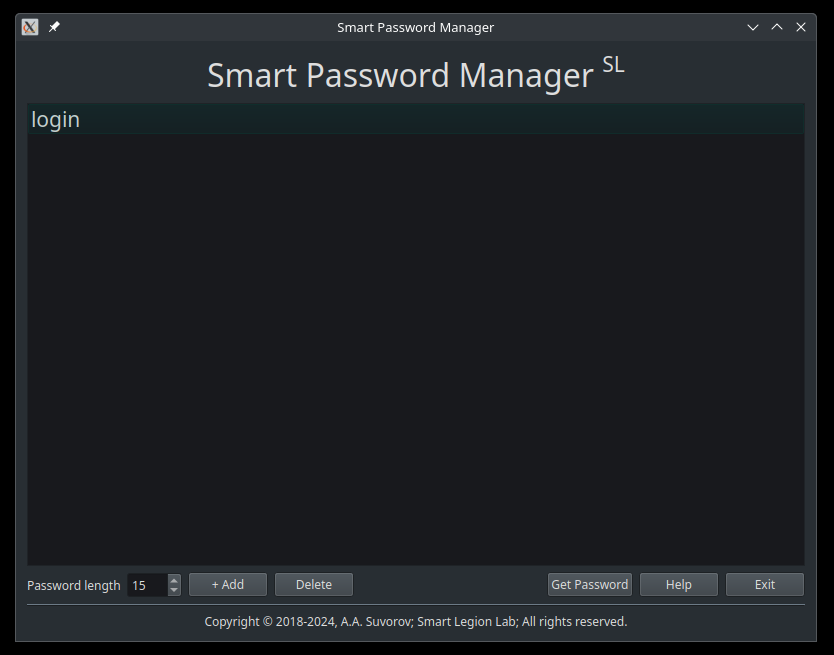
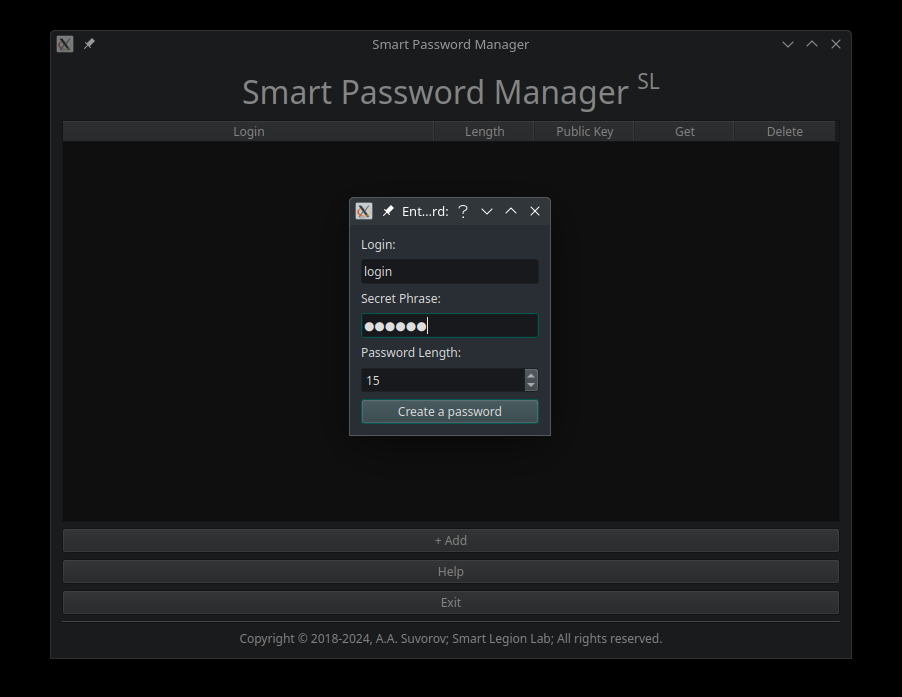
Smart Password Manager (Desktop) v0.6.1

diff --git a/app.py b/app.py
@@ -17,20 +17,18 @@ from PyQt5.QtWidgets import (
     QMessageBox,
     QLineEdit,
     QDialog,
-    QHBoxLayout,
     QTableWidget,
     QTableWidgetItem,
     QSpinBox,
-    QSpacerItem,
-    QSizePolicy,
-    QFrame, QInputDialog
+    QFrame,
+    QHeaderView
 )
 from PyQt5.QtGui import QFont
 from PyQt5.QtCore import Qt
 
 from core.config import Config
-from core.smart_password_factory import SmartPasswordFactory
-from core.smart_password_manager import SmartPasswordManager
+from core.model import SmartPasswordFactory
+from core.manager import SmartPasswordManager
 
 
 class PasswordInputDialog(QDialog):
@@ -109,6 +107,10 @@ class MainWindow(QWidget):
         self.table_widget.setColumnCount(5)
         self.table_widget.setHorizontalHeaderLabels(['Login', 'Length', 'Public Key', 'Get', 'Delete'])
         self.table_widget.setEditTriggers(QTableWidget.NoEditTriggers)
+
+        for i in range(5):
+            self.table_widget.horizontalHeader().setSectionResizeMode(i, QHeaderView.Interactive)
+
         self.vertical_layout.addWidget(self.table_widget)
 
         self.btn_new_password = QPushButton(self.config.btn_new_pass_title)
@@ -122,6 +124,16 @@ class MainWindow(QWidget):
         self.btn_exit = QPushButton(self.config.btn_exit_title)
         self.btn_exit.clicked.connect(self.close)
         self.vertical_layout.addWidget(self.btn_exit)
+
+        self.line = QFrame()
+        self.line.setFrameShape(QFrame.HLine)
+        self.line.setFrameShadow(QFrame.Sunken)
+        self.vertical_layout.addWidget(self.line)
+
+        self.copyright_label = QLabel()
+        self.copyright_label.setAlignment(Qt.AlignCenter)
+        self.copyright_label.setText(self.config.copyright)
+        self.vertical_layout.addWidget(self.copyright_label)
 
         self.setLayout(self.vertical_layout)
         self._init()
@@ -231,7 +243,31 @@ class MainWindow(QWidget):
         return reply == QMessageBox.Yes
 
     def show_dialog(self, title, name, text):
-        QInputDialog.getMultiLineText(self, title, name, text=text)
+        dialog = QDialog(self)
+        dialog.setWindowTitle(title)
+
+        layout = QVBoxLayout(dialog)
+
+        label = QLabel(name)
+        layout.addWidget(label)
+
+        password_text = QLineEdit()
+        password_text.setText(text)
+        password_text.setReadOnly(True)
+        layout.addWidget(password_text)
+
+        copy_button = QPushButton("Copy to clipboard")
+        copy_button.clicked.connect(lambda: self.copy_to_clipboard(password_text.text(), dialog))
+        layout.addWidget(copy_button)
+
+        dialog.setLayout(layout)
+        dialog.exec_()
+
+    def copy_to_clipboard(self, text, dialog):
+        clipboard = QApplication.clipboard()
+        clipboard.setText(text)
+        self.show_msg('Success!', 'Password copied to clipboard.')
+        dialog.accept()
 
     def show_msg(self, title, msg):
         QMessageBox.about(self, title, msg)

diff --git a/core/__init__.py b/core/__init__.py
@@ -8,4 +8,4 @@
 # --------------------------------------------------------
 """A graphical, cross-platform application for storing,
 generating, and recovering complex, smart passwords."""
-__version__ = '0.5.0'
+__version__ = '0.6.1'

diff --git a/core/manager.py b/core/manager.py
@@ -11,7 +11,7 @@ import json
 
 from smartpasslib import SmartPasswordMaster
 
-from core.smart_password_factory import SmartPassword
+from core.model import SmartPassword
 
 
 class SmartPasswordManager:

diff --git a/README.md b/README.md
@@ -1,10 +1,11 @@
-# Smart Password Manager v0.5.0
+# Smart Password Manager v0.6.1 
 
-Desktop version
+### Desktop version
 
 ---
 
-> Smart Password Manager - A graphical, cross-platform application for storing, generating, and recovering complex, smart passwords.
+> Smart Password Manager - A graphical, cross-platform application for storing, 
+> generating, and recovering complex, smart passwords.
 
 Works on a unique technology that has no analogues using a library [smartpasslib](https://github.com/smartlegionlab/smartpasslib/).
 
@@ -19,9 +20,19 @@ Other apps for generating and managing smart passwords:
 
 ## Supported:
 
-- Linux
-- Windows
+- Linux (All)
+- Windows (All)
 
+> WARNING!!! Requires [Python](https://python.org) 3.7+ installed!!!
+
+---
+
+## What's new? <sup>v0.6.1</sup>
+
+- Fixed errors.
+- Improved user interface.
+- Code refactoring.
+  
 ---
 
 ## Help:
@@ -30,6 +41,7 @@ Other apps for generating and managing smart passwords:
 - Go to the project folder
 - `python -m venv venv`
 - `source venv/bin/activate`
+- `pip install -r requirements.txt`
 - `python app.py`
 
 ---
@@ -37,6 +49,10 @@ Other apps for generating and managing smart passwords:
 ## Images:
 
 ![LOGO](https://github.com/smartlegionlab/smartpassman/raw/master/data/images/smartpassman.png)
+
+![LOGO](https://github.com/smartlegionlab/smartpassman/raw/master/data/images/smartpassman2.png)
+
+![LOGO](https://github.com/smartlegionlab/smartpassman/raw/master/data/images/smartpassman3.png)
 
 ***
 
